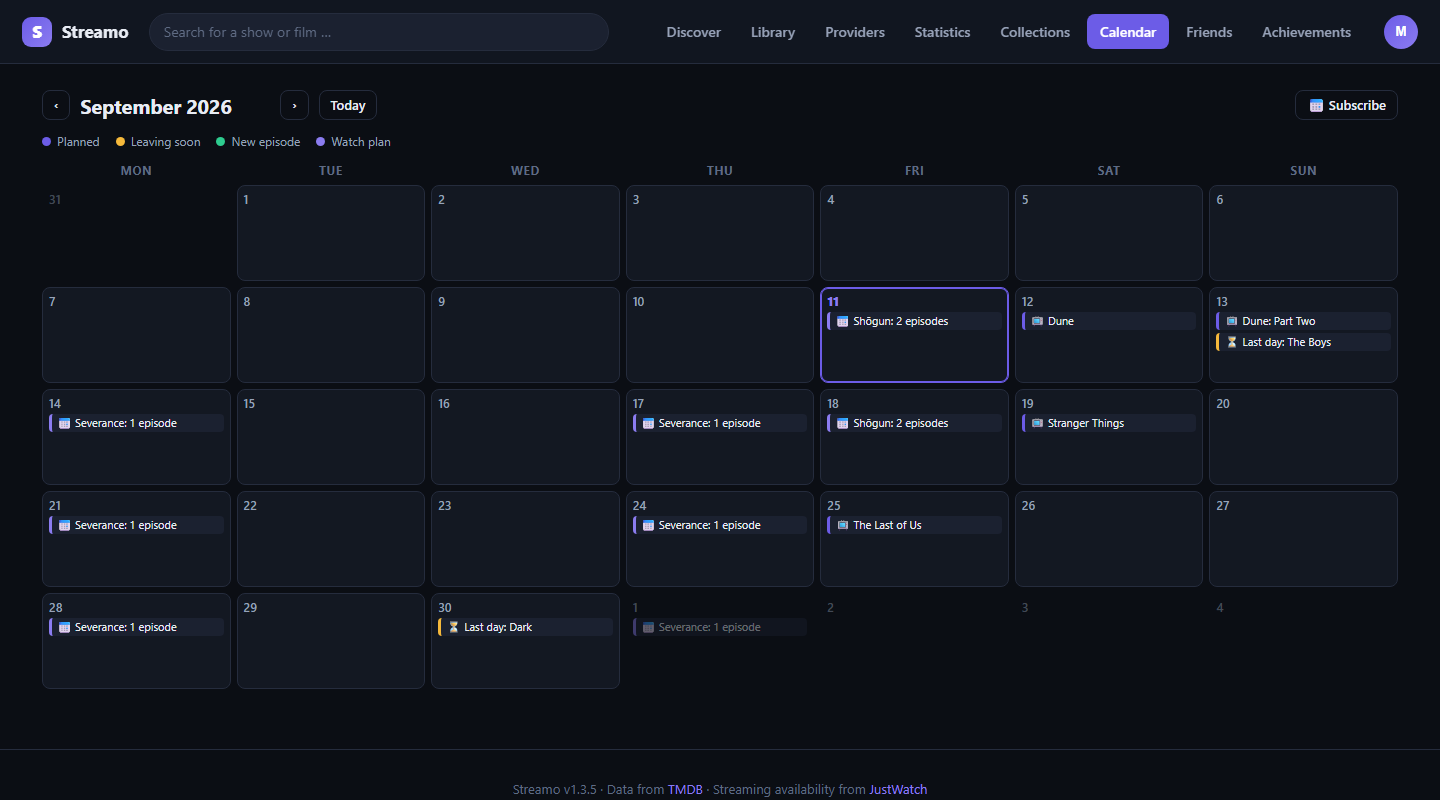
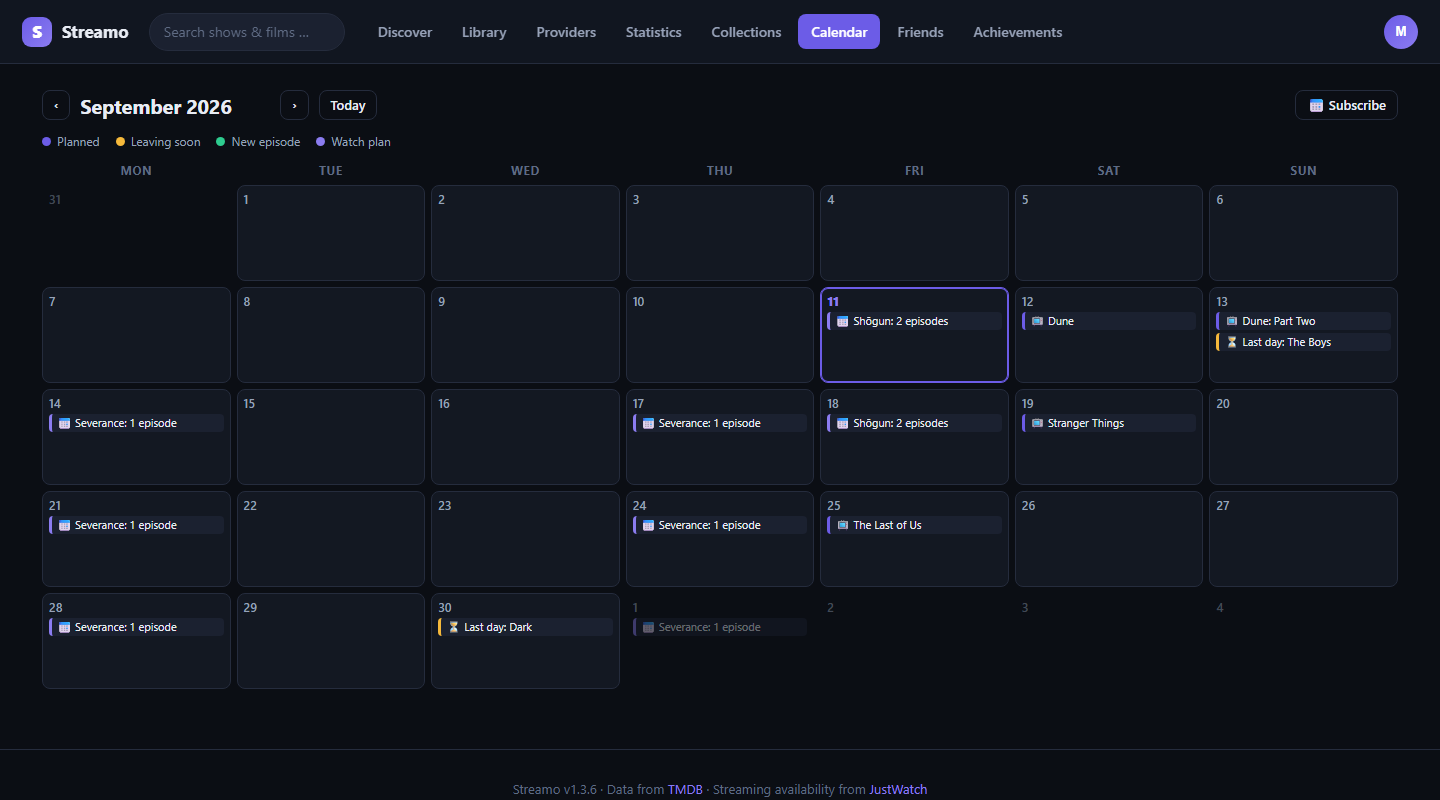
Navigation mittig in der Kopfzeile (1.3.6)
Die Reiter (Entdecken, Bibliothek, Anbieter ...) standen rechts neben dem
Kontokreis. Jetzt sitzen sie in der Mitte der Leiste.

WIE
Die Kopfzeile ist ein Raster aus drei Spalten: links Logo und Suche, in der
Mitte die Navigation, rechts das Konto. Die beiden aeusseren Spalten sind
gleich breit - nur so steht die Navigation wirklich in der Mitte der Leiste
und nicht bloss in der Mitte des Platzes, der zwischen Suche und Konto
uebrig bleibt. Logo und Suche sind dafuer in index.html zu einer Gruppe
zusammengefasst.

GRENZEN
Die Navigation braucht rund 650 Pixel. Unter 1360 Pixeln Fensterbreite
wuerde die Suche daneben zu schmal - dort steht die Navigation wie frueher
rechts. Auf dem Telefon aendert sich nichts, dort liegt sie unten.
Geprueft bei 1920, 1440, 1360, 1280 und 1100 Pixeln, deutsch und englisch.

Der englische Platzhalter der Suche heisst jetzt "Search shows & films"
statt "Search for a show or film": Die englische Navigation ist breiter,
und bei 1360 Pixeln wurde er sonst angeschnitten.

Die Bilder im README (beide Sprachen) zeigen die neue Kopfzeile.

620 Pruefungen, alle gruen.

diff --git a/public/css/styles.css b/public/css/styles.css
@@ -234,7 +234,12 @@ img {
   top: 0;
   z-index: 50;
   height: var(--topbar-height);
-  display: flex;
+  /* Drei Spalten: links Logo und Suche, in der Mitte die Navigation, rechts
+     das Konto. Die äußeren sind gleich breit (je 1fr) – nur so steht die
+     Navigation wirklich in der Mitte der Leiste und nicht bloß in der Mitte
+     des Platzes, der zwischen Suche und Konto übrig bleibt. */
+  display: grid;
+  grid-template-columns: minmax(0, 1fr) auto minmax(0, 1fr);
   align-items: center;
   gap: 20px;
   padding: 0 22px;
@@ -269,9 +274,19 @@ img {
   color: #fff;
 }
 
+/* Die linke Spalte: Logo und daneben die Suche, die den Rest ausfüllt. */
+.topbar-left {
+  display: flex;
+  align-items: center;
+  gap: 20px;
+  min-width: 0;
+}
+
 #global-search {
   flex: 1;
   max-width: 460px;
+  /* Darf schmaler werden, damit die Navigation mittig bleiben kann. */
+  min-width: 0;
 }
 #global-search input {
   width: 100%;
@@ -292,7 +307,7 @@ img {
 #topbar nav {
   display: flex;
   gap: 4px;
-  margin-left: auto;
+  justify-self: center;
 }
 #topbar nav a {
   padding: 7px 13px;
@@ -316,6 +331,29 @@ img {
 .topbar-right {
   position: relative;
   flex-shrink: 0;
+  /* Ganz nach rechts in der rechten Spalte. */
+  justify-self: end;
+}
+
+/* Mittlere Breiten: Die Navigation braucht rund 650 Pixel. Damit die Suche
+   links daneben nicht zu einem Strich schrumpft, rücken die Einträge etwas
+   zusammen – und unter 1360 Pixeln gibt es die Mitte nicht mehr: Dann steht
+   die Navigation wie früher rechts, und die Suche bekommt den Platz. */
+@media (max-width: 1439px) {
+  #topbar nav a {
+    padding: 7px 9px;
+  }
+}
+@media (min-width: 721px) and (max-width: 1359px) {
+  #topbar {
+    display: flex;
+  }
+  .topbar-left {
+    flex: 1;
+  }
+  #topbar nav {
+    margin-left: auto;
+  }
 }
 
 /* ---------------------------------------------------------------------------
@@ -1849,6 +1887,9 @@ footer p {
 
   /* --- Kopfzeile: nur noch Logo, Suche, Konto --- */
   #topbar {
+    /* Auf dem Telefon keine Mitte: Die Navigation wandert nach unten, oben
+       bleiben Logo, Suche und Konto nebeneinander. */
+    display: flex;
     height: var(--topbar-height);
     padding: 0 12px;
     /* Unter die Statusleiste bzw. Aussparung schieben, aber den Inhalt
@@ -1865,6 +1906,12 @@ footer p {
   /* Die Navigation in der Kopfzeile weicht der unteren Leiste. */
   #topbar nav {
     display: none;
+  }
+
+  /* Logo und Suche teilen sich die ganze Breite bis zum Konto. */
+  .topbar-left {
+    flex: 1;
+    gap: 10px;
   }
 
   #global-search {

diff --git a/public/index.html b/public/index.html
@@ -106,6 +106,11 @@
          eingeblendet, sobald feststeht, dass jemand angemeldet ist.
          ===================================================================== -->
     <header id="topbar" hidden>
+      <!-- Logo und Suche bilden die linke Spalte. Zusammengefasst, damit die
+           Navigation in der Mitte der Leiste stehen kann: Die Kopfzeile ist
+           ein Raster aus drei Spalten, und die beiden äußeren sind gleich
+           breit (siehe #topbar in public/css/styles.css). -->
+      <div class="topbar-left">
       <a class="brand" href="/" data-link>
         <span class="brand-mark">S</span>
         <span class="brand-name">Streamo</span>
@@ -121,6 +126,7 @@
           aria-label="Suche"
         />
       </form>
+      </div>
 
       <!-- data-link markiert Verweise, die der Router abfängt, statt die
            Seite neu zu laden (siehe public/js/router.js). -->

diff --git a/public/js/i18n/en/basis.js b/public/js/i18n/en/basis.js
@@ -30,7 +30,9 @@ export default {
   Abmelden: 'Sign out',
   Konto: 'Account',
   Suche: 'Search',
-  'Serie oder Film suchen …': 'Search for a show or film …',
+  // Kurz gehalten: Die englische Navigation ist breiter, und bei 1360 Pixeln
+  // bleibt der Suche neben der mittigen Navigation nur wenig Platz.
+  'Serie oder Film suchen …': 'Search shows & films …',
   'Streamo startet …': 'Streamo is starting …',
   '· Daten von': '· Data from',
   '· Streaming-Verfügbarkeit von': '· Streaming availability from',

diff --git a/src/config.js b/src/config.js
@@ -274,7 +274,7 @@ export const config = Object.freeze({
 
   // --- Metadaten ----------------------------------------------------------
   /** Version, wird im UI-Footer und unter /api/health angezeigt */
-  version: '1.3.5',
+  version: '1.3.6',
 });
 
 export default config;
